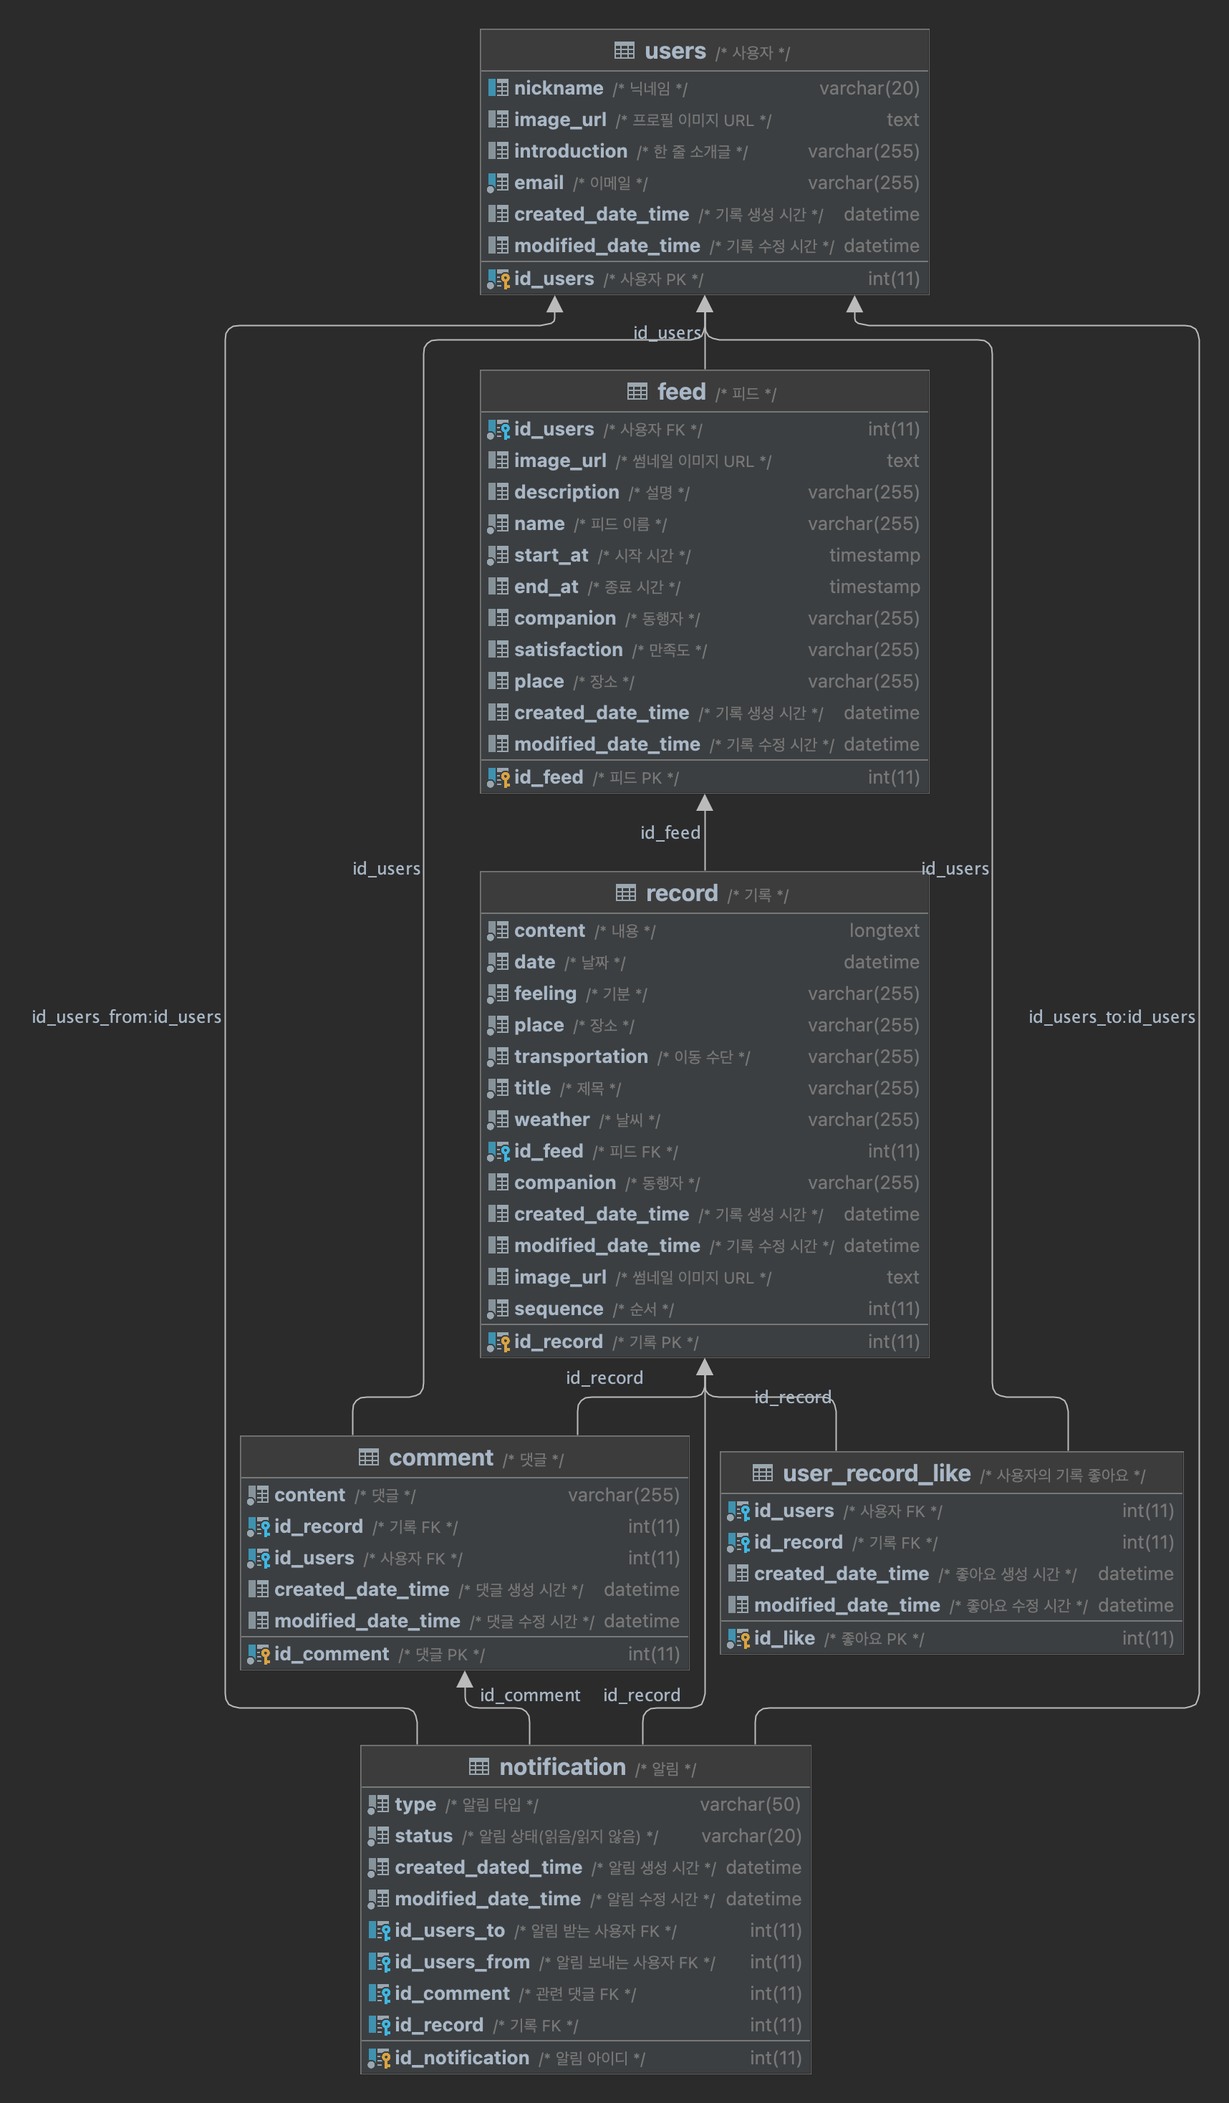
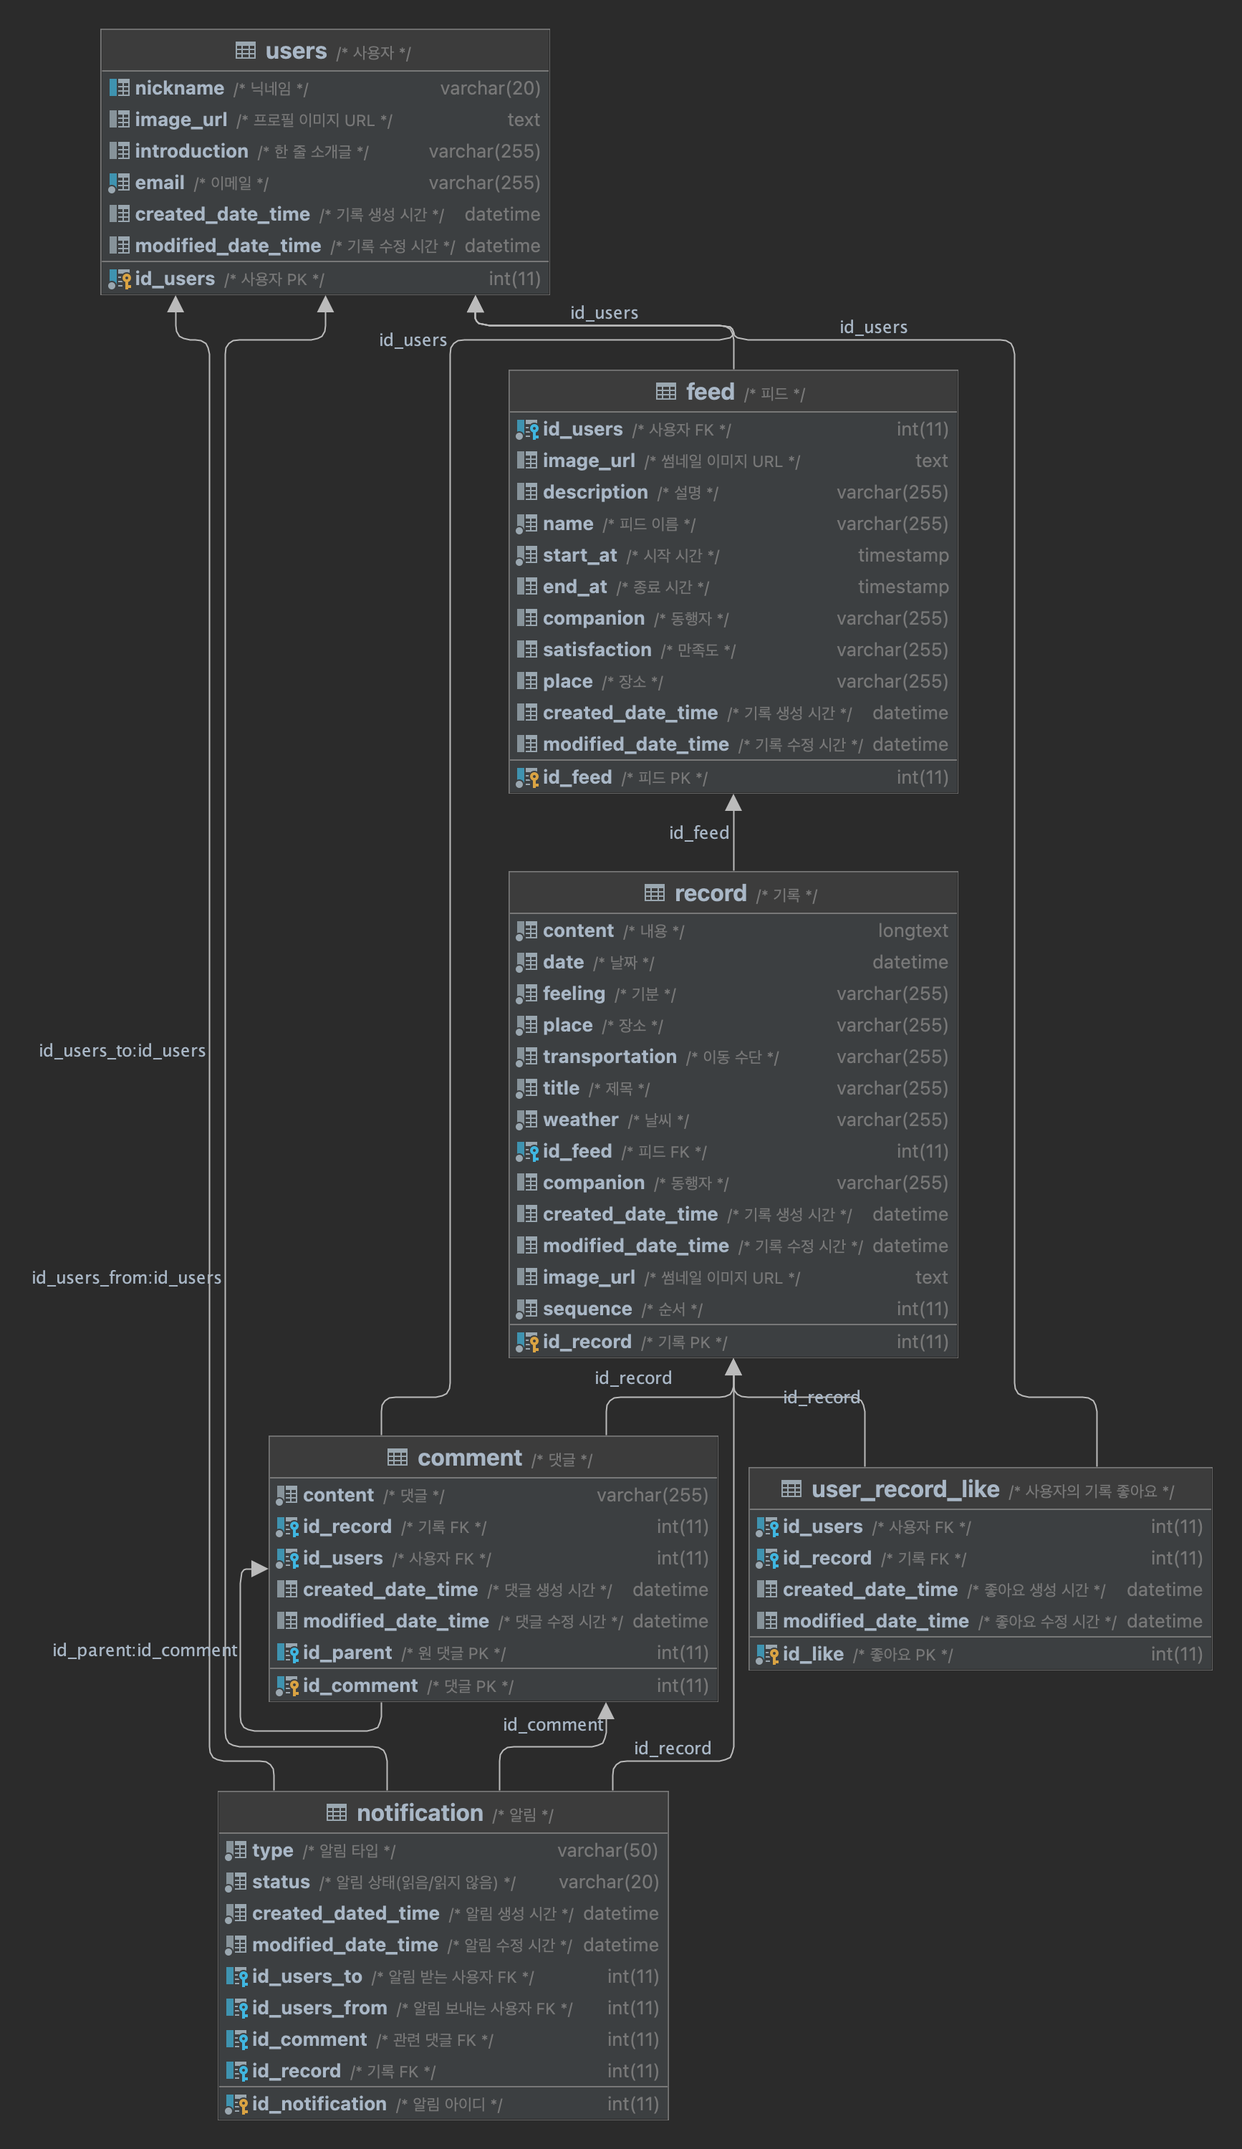
Add: child comment

Changed region(s): [[0.0309, 0.0, 0.9883, 0.9918], [0.803, 0.155, 0.8339, 0.6509]]

diff --git a/src/test/java/world/trecord/web/service/comment/CommentServiceTest.java b/src/test/java/world/trecord/web/service/comment/CommentServiceTest.java
@@ -22,6 +22,7 @@ import world.trecord.web.service.comment.response.CommentDeleteResponse;
 import world.trecord.web.service.comment.response.CommentUpdateResponse;
 
 import java.time.LocalDateTime;
+import java.util.List;
 
 @IntegrationTestSupport
 class CommentServiceTest {
@@ -62,6 +63,32 @@ class CommentServiceTest {
         Assertions.assertThat(response)
                 .extracting("recordId", "commentId", "content")
                 .containsExactly(recordEntity.getId(), commentEntity.getId(), commentEntity.getContent());
+    }
+
+    @Test
+    @DisplayName("대댓글을 작성하여 생성된 댓글 상세 정보를 반환한다")
+    void createChildCommentTest() throws Exception {
+        //given
+        UserEntity userEntity = userRepository.save(UserEntity.builder().email("test@email.com").build());
+        FeedEntity feedEntity = feedRepository.save(createFeedEntity(userEntity, "feed name", LocalDateTime.of(2021, 9, 30, 0, 0), LocalDateTime.of(2021, 10, 2, 0, 0)));
+        RecordEntity recordEntity = recordRepository.save(createRecordEntity(feedEntity, "record1", "place2", LocalDateTime.of(2022, 3, 2, 0, 0), "content1", "weather1", "satisfaction1", "feeling1"));
+        CommentEntity parentCommentEntity = commentRepository.save(createCommentEntity(userEntity, recordEntity, null, "content"));
+
+        CommentCreateRequest request = CommentCreateRequest.builder()
+                .recordId(recordEntity.getId())
+                .parentId(parentCommentEntity.getId())
+                .content("content")
+                .build();
+
+        //when
+        CommentCreateResponse response = commentService.createComment(userEntity.getId(), request);
+
+        //then
+        Assertions.assertThat(commentRepository.findById(response.getCommentId()))
+                .isPresent()
+                .hasValueSatisfying(comment -> {
+                    Assertions.assertThat(comment.getParentCommentEntity()).isEqualTo(parentCommentEntity);
+                });
     }
 
     @Test
@@ -106,7 +133,7 @@ class CommentServiceTest {
         UserEntity userEntity = userRepository.save(UserEntity.builder().email("test@email.com").build());
         FeedEntity feedEntity = feedRepository.save(createFeedEntity(userEntity, "feed name", LocalDateTime.of(2021, 9, 30, 0, 0), LocalDateTime.of(2021, 10, 2, 0, 0)));
         RecordEntity recordEntity = recordRepository.save(createRecordEntity(feedEntity, "record1", "place2", LocalDateTime.of(2022, 3, 2, 0, 0), "content1", "weather1", "satisfaction1", "feeling1"));
-        CommentEntity commentEntity = commentRepository.save(createCommentEntity(userEntity, recordEntity, "content"));
+        CommentEntity commentEntity = commentRepository.save(createCommentEntity(userEntity, recordEntity, null, "content"));
 
         String changedContent = "changed content";
         CommentUpdateRequest request = CommentUpdateRequest.builder()
@@ -168,7 +195,7 @@ class CommentServiceTest {
         UserEntity otherEntity = userRepository.save(UserEntity.builder().email("test1@email.com").build());
         FeedEntity feedEntity = feedRepository.save(createFeedEntity(userEntity, "feed name", LocalDateTime.of(2021, 9, 30, 0, 0), LocalDateTime.of(2021, 10, 2, 0, 0)));
         RecordEntity recordEntity = recordRepository.save(createRecordEntity(feedEntity, "record1", "place2", LocalDateTime.of(2022, 3, 2, 0, 0), "content1", "weather1", "satisfaction1", "feeling1"));
-        CommentEntity commentEntity = commentRepository.save(createCommentEntity(userEntity, recordEntity, "content"));
+        CommentEntity commentEntity = commentRepository.save(createCommentEntity(userEntity, recordEntity, null, "content"));
 
         CommentUpdateRequest request = CommentUpdateRequest.builder()
                 .content("change content")
@@ -188,7 +215,7 @@ class CommentServiceTest {
         UserEntity userEntity = userRepository.save(UserEntity.builder().email("test@email.com").build());
         FeedEntity feedEntity = feedRepository.save(createFeedEntity(userEntity, "feed name", LocalDateTime.of(2021, 9, 30, 0, 0), LocalDateTime.of(2021, 10, 2, 0, 0)));
         RecordEntity recordEntity = recordRepository.save(createRecordEntity(feedEntity, "record1", "place2", LocalDateTime.of(2022, 3, 2, 0, 0), "content1", "weather1", "satisfaction1", "feeling1"));
-        CommentEntity commentEntity = commentRepository.save(createCommentEntity(userEntity, recordEntity, "content"));
+        CommentEntity commentEntity = commentRepository.save(createCommentEntity(userEntity, recordEntity, null, "content"));
 
         //when
         CommentDeleteResponse response = commentService.deleteComment(userEntity.getId(), commentEntity.getId());
@@ -199,6 +226,31 @@ class CommentServiceTest {
     }
 
     @Test
+    @DisplayName("댓글 작성자가 댓글을 삭제하면 원댓글을 삭제하면 자식 댓글들도 함께 삭제된다")
+    void deleteParentCommentTest() throws Exception {
+        //given
+        UserEntity writer = userRepository.save(UserEntity.builder().email("test@email.com").build());
+        UserEntity commenter = userRepository.save(UserEntity.builder().email("test1@email.com").build());
+
+        FeedEntity feedEntity = feedRepository.save(createFeedEntity(writer, "feed name", LocalDateTime.of(2021, 9, 30, 0, 0), LocalDateTime.of(2021, 10, 2, 0, 0)));
+        RecordEntity recordEntity = recordRepository.save(createRecordEntity(feedEntity, "record1", "place2", LocalDateTime.of(2022, 3, 2, 0, 0), "content1", "weather1", "satisfaction1", "feeling1"));
+
+        CommentEntity parentCommentEntity = commentRepository.save(createCommentEntity(commenter, recordEntity, null, "content"));
+
+        CommentEntity childCommentEntity1 = createCommentEntity(writer, recordEntity, parentCommentEntity, "content");
+        CommentEntity childCommentEntity2 = createCommentEntity(writer, recordEntity, parentCommentEntity, "content");
+        CommentEntity childCommentEntity3 = createCommentEntity(writer, recordEntity, parentCommentEntity, "content");
+
+        commentRepository.saveAll(List.of(childCommentEntity1, childCommentEntity2, childCommentEntity3));
+
+        //when
+        CommentDeleteResponse response = commentService.deleteComment(commenter.getId(), parentCommentEntity.getId());
+
+        //then
+        Assertions.assertThat(commentRepository.findById(response.getCommentId())).isEmpty();
+    }
+
+    @Test
     @DisplayName("댓글 작성자가 아닌 사용자가 댓글을 삭제하려고 하면 예외가 발생한다")
     void deleteCommentWithNotCommenterTest() throws Exception {
         //given
@@ -206,7 +258,7 @@ class CommentServiceTest {
         UserEntity otherEntity = userRepository.save(UserEntity.builder().email("test1@email.com").build());
         FeedEntity feedEntity = feedRepository.save(createFeedEntity(userEntity, "feed name", LocalDateTime.of(2021, 9, 30, 0, 0), LocalDateTime.of(2021, 10, 2, 0, 0)));
         RecordEntity recordEntity = recordRepository.save(createRecordEntity(feedEntity, "record1", "place2", LocalDateTime.of(2022, 3, 2, 0, 0), "content1", "weather1", "satisfaction1", "feeling1"));
-        CommentEntity commentEntity = commentRepository.save(createCommentEntity(userEntity, recordEntity, "content"));
+        CommentEntity commentEntity = commentRepository.save(createCommentEntity(userEntity, recordEntity, null, "content"));
 
         //when //then
         Assertions.assertThatThrownBy(() -> commentService.deleteComment(otherEntity.getId(), commentEntity.getId()))
@@ -266,10 +318,11 @@ class CommentServiceTest {
                 .build();
     }
 
-    private CommentEntity createCommentEntity(UserEntity userEntity, RecordEntity recordEntity, String content) {
+    private CommentEntity createCommentEntity(UserEntity userEntity, RecordEntity recordEntity, CommentEntity parentCommentEntity, String content) {
         return CommentEntity.builder()
                 .userEntity(userEntity)
                 .recordEntity(recordEntity)
+                .parentCommentEntity(parentCommentEntity)
                 .content(content)
                 .build();
     }

diff --git a/src/test/java/world/trecord/web/controller/comment/CommentControllerTest.java b/src/test/java/world/trecord/web/controller/comment/CommentControllerTest.java
@@ -28,6 +28,7 @@ import static org.springframework.test.web.servlet.result.MockMvcResultHandlers.
 import static org.springframework.test.web.servlet.result.MockMvcResultMatchers.jsonPath;
 import static org.springframework.test.web.servlet.result.MockMvcResultMatchers.status;
 import static world.trecord.web.exception.CustomExceptionError.INVALID_ARGUMENT;
+import static world.trecord.web.exception.CustomExceptionError.NOT_EXISTING_COMMENT;
 
 @MockMvcTestSupport
 class CommentControllerTest {
@@ -86,6 +87,67 @@ class CommentControllerTest {
                 )
                 .andExpect(status().isOk())
                 .andExpect(jsonPath("$.data.content").value("content"));
+    }
+
+    @Test
+    @DisplayName("POST /api/v1/comments - 성공 (대댓글 생성)")
+    void createChildCommentTest() throws Exception {
+        //given
+        UserEntity userEntity = userRepository.save(UserEntity.builder().email("test@email.com").build());
+        FeedEntity feedEntity = feedRepository.save(createFeedEntity(userEntity, "feed name", LocalDateTime.of(2021, 9, 30, 0, 0), LocalDateTime.of(2021, 10, 2, 0, 0)));
+        RecordEntity recordEntity = recordRepository.save(createRecordEntity(feedEntity, "record1", "place2", LocalDateTime.of(2022, 3, 2, 0, 0), "content1", "weather1", "satisfaction1", "feeling1"));
+        CommentEntity parentCommentEntity = commentRepository.save(createCommentEntity(userEntity, recordEntity, "content"));
+
+        String token = jwtTokenHandler.generateToken(userEntity.getId(), secretKey, expiredTimeMs);
+
+        String content = "content";
+        CommentCreateRequest request = CommentCreateRequest.builder()
+                .recordId(recordEntity.getId())
+                .parentId(parentCommentEntity.getId())
+                .content(content)
+                .build();
+
+        String body = objectMapper.writeValueAsString(request);
+
+        //when //then
+        mockMvc.perform(
+                        post("/api/v1/comments")
+                                .header("Authorization", token)
+                                .content(body)
+                                .contentType(MediaType.APPLICATION_JSON)
+                )
+                .andExpect(status().isOk());
+    }
+
+    @Test
+    @DisplayName("POST /api/v1/comments - 실패 (원댓글 존재하지 않음)")
+    void createChildCommentWhenOriginCommentNotExistingTest() throws Exception {
+        //given
+        UserEntity userEntity = userRepository.save(UserEntity.builder().email("test@email.com").build());
+        FeedEntity feedEntity = feedRepository.save(createFeedEntity(userEntity, "feed name", LocalDateTime.of(2021, 9, 30, 0, 0), LocalDateTime.of(2021, 10, 2, 0, 0)));
+        RecordEntity recordEntity = recordRepository.save(createRecordEntity(feedEntity, "record1", "place2", LocalDateTime.of(2022, 3, 2, 0, 0), "content1", "weather1", "satisfaction1", "feeling1"));
+
+        long notExistingCommentId = 0L;
+        String token = jwtTokenHandler.generateToken(userEntity.getId(), secretKey, expiredTimeMs);
+
+        String content = "content";
+        CommentCreateRequest request = CommentCreateRequest.builder()
+                .recordId(recordEntity.getId())
+                .parentId(notExistingCommentId)
+                .content(content)
+                .build();
+
+        String body = objectMapper.writeValueAsString(request);
+
+        //when //then
+        mockMvc.perform(
+                        post("/api/v1/comments")
+                                .header("Authorization", token)
+                                .content(body)
+                                .contentType(MediaType.APPLICATION_JSON)
+                )
+                .andExpect(status().isBadRequest())
+                .andExpect(jsonPath("$.code").value(NOT_EXISTING_COMMENT.getErrorCode()));
     }
 
     @Test

diff --git a/src/main/java/world/trecord/web/service/comment/CommentService.java b/src/main/java/world/trecord/web/service/comment/CommentService.java
@@ -17,6 +17,8 @@ import world.trecord.web.service.comment.response.CommentDeleteResponse;
 import world.trecord.web.service.comment.response.CommentUpdateResponse;
 import world.trecord.web.service.notification.NotificationService;
 
+import java.util.Optional;
+
 import static world.trecord.web.exception.CustomExceptionError.*;
 
 @Transactional(readOnly = true)
@@ -36,7 +38,9 @@ public class CommentService {
 
         RecordEntity recordEntity = findRecordEntityBy(request.getRecordId());
 
-        CommentEntity commentEntity = commentRepository.save(request.toEntity(userEntity, recordEntity, request.getContent()));
+        CommentEntity parentCommentEntity = findParentCommentEntity(request.getParentId());
+
+        CommentEntity commentEntity = commentRepository.save(request.toEntity(userEntity, recordEntity, parentCommentEntity, request.getContent()));
 
         // TODO async 처리
         notificationService.createCommentNotification(commentEntity);
@@ -64,11 +68,11 @@ public class CommentService {
     }
 
     @Transactional
-    public CommentDeleteResponse deleteComment(Long userId, Long commendId) {
+    public CommentDeleteResponse deleteComment(Long userId, Long commentId) {
 
         UserEntity userEntity = findUserEntityBy(userId);
 
-        CommentEntity commentEntity = findCommentEntityWithUserEntityBy(commendId);
+        CommentEntity commentEntity = findCommentEntityWithChildCommentEntitiesWith(commentId);
 
         checkPermissionOverComment(userEntity, commentEntity);
 
@@ -77,6 +81,16 @@ public class CommentService {
         return CommentDeleteResponse.builder()
                 .commentEntity(commentEntity)
                 .build();
+    }
+
+    private CommentEntity findParentCommentEntity(Long parentId) {
+        return Optional.ofNullable(parentId)
+                .map(this::findCommentEntityWithUserEntityBy)
+                .orElse(null);
+    }
+
+    private CommentEntity findCommentEntityWithChildCommentEntitiesWith(Long commentId) {
+        return commentRepository.findCommentEntityWithChildCommentEntitiesById(commentId).orElseThrow(() -> new CustomException(NOT_EXISTING_COMMENT));
     }
 
     private CommentEntity findCommentEntityWithUserEntityBy(Long commentId) {

diff --git a/src/main/java/world/trecord/domain/comment/CommentEntity.java b/src/main/java/world/trecord/domain/comment/CommentEntity.java
@@ -9,6 +9,9 @@ import world.trecord.domain.BaseEntity;
 import world.trecord.domain.record.RecordEntity;
 import world.trecord.domain.users.UserEntity;
 
+import java.util.ArrayList;
+import java.util.List;
+
 @NoArgsConstructor(access = AccessLevel.PROTECTED)
 @Getter
 @Table(name = "comment")
@@ -31,14 +34,29 @@ public class CommentEntity extends BaseEntity {
     @JoinColumn(name = "id_record", nullable = false, foreignKey = @ForeignKey(name = "fk_comment_record"))
     private RecordEntity recordEntity;
 
+    @ManyToOne(fetch = FetchType.LAZY)
+    @JoinColumn(name = "id_parent", foreignKey = @ForeignKey(name = "fk_comment_comment"))
+    private CommentEntity parentCommentEntity;
+
+    @OneToMany(mappedBy = "parentCommentEntity", cascade = CascadeType.ALL, orphanRemoval = true)
+    private List<CommentEntity> childCommentEntities = new ArrayList<>();
+
     @Builder
-    private CommentEntity(String content, UserEntity userEntity, RecordEntity recordEntity) {
+    private CommentEntity(String content, UserEntity userEntity, RecordEntity recordEntity, CommentEntity parentCommentEntity) {
         this.content = content;
         this.userEntity = userEntity;
         if (recordEntity != null) {
             this.recordEntity = recordEntity;
             recordEntity.addCommentEntity(this);
         }
+        if (parentCommentEntity != null) {
+            this.parentCommentEntity = parentCommentEntity;
+            parentCommentEntity.addChildCommentEntity(this);
+        }
+    }
+
+    public void addChildCommentEntity(CommentEntity childCommentEntity) {
+        this.childCommentEntities.add(childCommentEntity);
     }
 
     public void update(CommentEntity updateEntity) {

diff --git a/src/main/java/world/trecord/web/service/comment/request/CommentCreateRequest.java b/src/main/java/world/trecord/web/service/comment/request/CommentCreateRequest.java
@@ -19,20 +19,24 @@ public class CommentCreateRequest {
     @NotNull
     private Long recordId;
 
+    private Long parentId;
+
     @Size(max = 255)
     @NotEmpty
     private String content;
 
     @Builder
-    private CommentCreateRequest(Long recordId, String content) {
+    private CommentCreateRequest(Long recordId, Long parentId, String content) {
         this.recordId = recordId;
+        this.parentId = parentId;
         this.content = content;
     }
 
-    public CommentEntity toEntity(UserEntity userEntity, RecordEntity recordEntity, String content) {
+    public CommentEntity toEntity(UserEntity userEntity, RecordEntity recordEntity, CommentEntity parentCommentEntity, String content) {
         return CommentEntity.builder()
                 .userEntity(userEntity)
                 .recordEntity(recordEntity)
+                .parentCommentEntity(parentCommentEntity)
                 .content(content)
                 .build();
     }

diff --git a/src/main/java/world/trecord/domain/comment/CommentRepository.java b/src/main/java/world/trecord/domain/comment/CommentRepository.java
@@ -17,6 +17,9 @@ public interface CommentRepository extends JpaRepository<CommentEntity, Long> {
     @EntityGraph(attributePaths = "userEntity")
     Optional<CommentEntity> findCommentEntityWithUserEntityById(@Param("id") Long commentId);
 
+    @EntityGraph(attributePaths = "childCommentEntities")
+    Optional<CommentEntity> findCommentEntityWithChildCommentEntitiesById(@Param("id") Long commentId);
+
     // TODO query slice
     @Query("SELECT re.id as recordId, re.title as recordTitle, ce.id as commentId, ce.content as content " +
             "FROM CommentEntity ce " +
